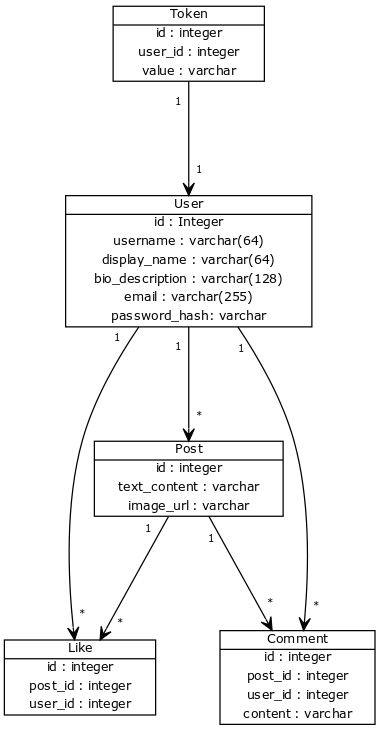
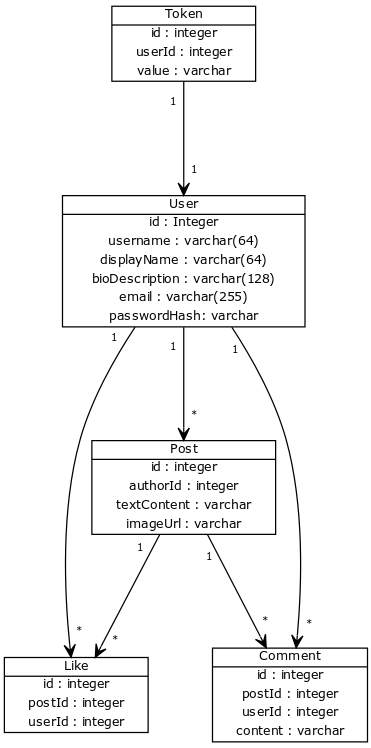
Rename some table attributes

diff --git a/src/models/post.js b/src/models/post.js
@@ -1,7 +1,7 @@
 module.exports = function(sequelize, DataTypes) {
   const Post = sequelize.define('post', {
     id: { type: DataTypes.INTEGER, autoIncrement: true, primraryKey: true },
-    userId: { type: DataTypes.INTEGER, foreignKey: true, required: true },
+    authorId: { type: DataTypes.INTEGER, foreignKey: true, required: true },
     textContent: { type: DataTypes.STRING, required: true },
     imageUrl: { type: DataTypes.STRING, required: true }
   }, {

diff --git a/docs/db_diagram.md b/docs/db_diagram.md
@@ -4,6 +4,6 @@
 
 ### yUML code
 ```
-[User | id : Integer; username : varchar(64); display_name : varchar(64); bio_description : varchar(128); email : varchar(255); password_hash: varchar]1-*>[Post | id : integer; text_content : varchar; image_url : varchar], [User | id : Integer; username : varchar(64); display_name : varchar(64); bio_description : varchar(128); email : varchar(255); password_hash: varchar]1-*>[Comment | id : integer; post_id : integer; user_id : integer; content : varchar], [Post | id : integer; text_content : varchar; image_url : varchar]1-*>[Comment | id : integer; post_id : integer; user_id : integer; content : varchar], [Post | id : integer; text_content : varchar; image_url : varchar]1-*>[Like |id : integer; post_id : integer; user_id : integer], [User | id : Integer; username : varchar(64); display_name : varchar(64); bio_description : varchar(128); email : varchar(255); password_hash: varchar]1-*>[Like |id : integer; post_id : integer; user_id : integer]
-[Token | id : integer; user_id : integer; value : varchar]1-1>[User | id : Integer; username : varchar(64); display_name : varchar(64); bio_description : varchar(128); email : varchar(255); password_hash: varchar]
+[User | id : Integer; username : varchar(64); displayName : varchar(64); bioDescription : varchar(128); email : varchar(255); passwordHash: varchar]1-*>[Post | id : integer; authorId : integer; textContent : varchar; imageUrl : varchar], [User | id : Integer; username : varchar(64); displayName : varchar(64); bioDescription : varchar(128); email : varchar(255); passwordHash: varchar]1-*>[Comment | id : integer; postId : integer; userId : integer; content : varchar], [Post | id : integer;  authorId : integer; textContent : varchar; imageUrl : varchar]1-*>[Comment | id : integer; postId : integer; userId : integer; content : varchar], [Post | id : integer;  authorId : integer; textContent : varchar; imageUrl : varchar]1-*>[Like |id : integer; postId : integer; userId : integer], [User | id : Integer; username : varchar(64); displayName : varchar(64); bioDescription : varchar(128); email : varchar(255); passwordHash: varchar]1-*>[Like |id : integer; postId : integer; userId : integer]
+[Token | id : integer; userId : integer; value : varchar]1-1>[User | id : Integer; username : varchar(64); displayName : varchar(64); bioDescription : varchar(128); email : varchar(255); passwordHash: varchar]
 ```
